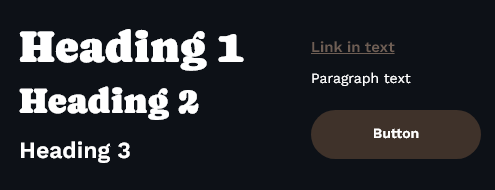
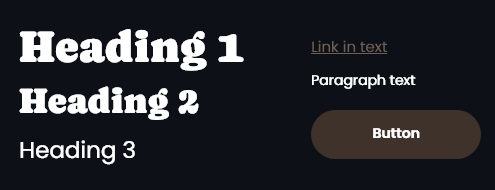
documentation: ui mockups updated

diff --git a/README.md b/README.md
@@ -1,5 +1,5 @@
 
-![Dog breed quiz Mockup](assets/images/documentation/responsive.png)
+![Dog Breed Quiz Mockup](assets/images/documentation/responsive.png)
 
 # Welcome to "Find your ideal dog breed" Quiz!
 This quiz is designed to help you discover the perfect dog breed for your lifestyle and personality. Developed by [Sunne Dogcare](https://fridalannerstrom.github.io/dogsitter/), it reflects our belief that choosing a dog is one of the most important decisions a future dog owner can make. By understanding your needs, habits, and preferences, we hope to guide you toward a breed that will thrive in your care.
@@ -56,7 +56,7 @@ This quiz is our way of promoting thoughtful dog ownership. By answering a serie
 
 ## Purpose of the Quiz
 
-This quiz has one simple goal: to help you discover which dog breed is the best match for your lifestyle and personality. There are no distractions, no unnecessary elements, and no clutter — just a clean and straightforward experience. A single clear button invites users to start the quiz, with concise, engaging text to guide them.
+This quiz has one simple goal: to help you discover which dog breed is the best match for your lifestyle and personality. There are no distractions, no unnecessary elements, and no clutter — just a clean and straightforward experience. A clear CTA button invites users to start the quiz, with concise, engaging text to guide them.
 
 While we provide a link back to Sunne Dogcare for those interested, this is not intended to act as an advertisement for the service. The focus remains solely on helping potential dog owners make thoughtful decisions about their future furry companions.
 
@@ -75,14 +75,14 @@ We’ve designed the quiz with simplicity and accessibility in mind, ensuring us
 | **Illustrations of beautiful dogs** | Eye-catching visuals enhance the user experience and make the quiz enjoyable. |
 | **Bold and clear text** | Short, simple instructions ensure users can easily follow along without confusion. | 
 | **Straightforward Call-to-Action** | A single, prominent button directs users to start the quiz. |
-| **Clear and Simple Questions** | Designed to be easy to understand, ensuring a smooth flow from start to finish. | 
-| **Overview of Top Dog Breed** | After completing the quiz, users are presented with their best match and receive clear, concise information about the breed. | 
-| **Discover Additional Matches** | Users can also see their other top three potential breeds for broader insights and more options. | 
+| **Clear and simple questions** | Designed to be easy to understand, ensuring a smooth flow from start to finish. | 
+| **Overview of top dog breed** | After completing the quiz, users are presented with their best match and receive clear, concise information about the breed. | 
+| **Discover additional matches** | Users can also see their other top three potential breeds for broader insights and more options. | 
 
 
 ## Graphic Design & Color Scheme
 
-The design of this quiz is intentionally simple, with a strong focus on text and illustrations. By avoiding distractions, the user can focus entirely on the content. The overall feel is warm, light, fresh, and trustworthy, brought to life through charming illustrations of various dog breeds.
+The design of this quiz is intentionally simple, with a strong focus on text and illustrations. By avoiding distractions, the user can focus entirely on the content. The overall feel is warm, light, and trustworthy, brought to life through charming illustrations of various dog breeds.
 
 ### Color Scheme
 
@@ -107,41 +107,41 @@ This pairing strikes the perfect balance, guiding the user’s eye naturally fro
 - **Caprasimo** for headings (H1, H2)
 - **Poppins** for paragraphs and H3 (Poppins used instead of Caprasimo for H3 due to better readability).
 - **Links** are styled in brown with an underline, maintaining a cohesive design that aligns with the overall aesthetic.
-- **Buttons** Large and brown buttons are used consistently throughout the quiz. Their prominent size and simplicity make them stand out, ensuring users can easily interact with the quiz.
+- **Buttons** are large and brown used consistently throughout the quiz. Their prominent size and simplicity make them stand out, ensuring users can easily interact with the quiz.
 
  ![Headings, text and buttons](assets/images/documentation/heading-text-buttons.png)
 
  ### Icons
 
-A single type of icon, a paw print from [Font Awesome](https://fontawesome.com/) is used to provide visual cues. For example, a breed’s energy level might be represented by five paw prints, with the number of filled paw prints indicating the level of activity. This simple visual system makes it quick and easy for users to interpret important information about each breed.
+A single type of icon, a paw print from [Font Awesome](https://fontawesome.com/) is used to provide visual information. For example, a breed’s energy level might be represented by five paw prints, with the number of filled paw prints indicating the level of activity. This simple visual system makes it quick and easy for users to interpret important information about each breed.
 
  ![Icons](assets/images/documentation/icons.png)
 
 ### Illustrations
 
-Instead of photographs, the quiz features illustrations of various dog breeds. These illustrations, sourced from [Flaticon.com](https://www.flaticon.com/) and created by [Maxim Kulikov](https://www.flaticon.com/authors/maxim-kulikov), bring a cohesive and playful touch to the design. The illustrations represent each breed accurately while maintaining a unified artistic style, enhancing the overall user experience.
+Instead of photographs, the quiz features illustrations of various dog breeds. These illustrations, sourced from [Flaticon.com](https://www.flaticon.com/) and created by [Maxim Kulikov](https://www.flaticon.com/authors/maxim-kulikov), bring a cohesive and playful touch to the design. The illustrations represent each breed accurately while maintaining an unified artistic style, enhancing the overall user experience.
 
  ![Illustrations](assets/images/documentation/illustrations.png)
 
 ## UI/UX Design
 
-The focus of the UI/UX design process for this quiz was to create a versatile and intuitive interface that accommodates different types of questions and results. Since the exact wording of the quiz questions is still being refined, the primary goal was to establish a design framework that supports various question formats. This includes:
+The focus of the UI/UX design process for this quiz was to create a versatile and intuitive interface that accommodates different types of questions and results. Since the exact wording of the quiz questions is still being refined at this point, the primary goal was to establish a design framework that supports various question formats. Each mockups also includes one or more selected options.
 
 | Purpose | Description | 🖥 Desktop | 💻 Tablet | 📱 Mobile |
 | ------- | ----------- | ------- | ------ | ------ |
-| **Checkbox questions** | For questions where users can select multiple answers. | ![Index Layout](assets/images/documentation/homepage.png) | ![Index Layout](assets/images/documentation/homepage.png) | ![Index Layout](assets/images/documentation/homepage.png) | 
-| **Radio Button question** | Information about services  | ![Index Layout](assets/images/documentation/homepage.png) | ![Index Layout](assets/images/documentation/homepage.png) | ![Index Layout](assets/images/documentation/homepage.png) | 
-| **Image-Based answers** | Display of dog-related images | ![Index Layout](assets/images/documentation/homepage.png) | ![Index Layout](assets/images/documentation/homepage.png) | ![Index Layout](assets/images/documentation/homepage.png) | 
-| **Text-Based answers with descriptions** | Information about the business | ![Index Layout](assets/images/documentation/homepage.png) | ![Index Layout](assets/images/documentation/homepage.png) | ![Index Layout](assets/images/documentation/homepage.png) | 
-| **Text-Based answers without descriptions** | Contact form for inquiries | ![Index Layout](assets/images/documentation/homepage.png) | ![Index Layout](assets/images/documentation/homepage.png) | ![Index Layout](assets/images/documentation/homepage.png) | 
+| **Checkbox questions** | For questions where users can select multiple answers | ![Checkbox Layout](assets/images/documentation/ui-mockup-desktop-checkbox.png) | ![Checkbox Layout](assets/images/documentation/ui-mockup-tablet-checkbox.png) | ![Checkbox Layout](assets/images/documentation/ui-mockup-mobile-checkbox.png) | 
+| **Radio Button question** | For questions where users can select only one option  | ![Radio Layout](assets/images/documentation/ui-mockup-desktop-radio.png) | ![Radio Layout](assets/images/documentation/ui-mockup-tablet-radio.png) | ![Radio Layout](assets/images/documentation/ui-mockup-mobile-radio.png) | 
+| **Image-Based answers** | For questions where users can select based on images | ![Image Layout](assets/images/documentation/ui-mockup-desktop-image.png) | ![Image Layout](assets/images/documentation/ui-mockup-tablet-image.png) | ![Image Layout](assets/images/documentation/ui-mockup-mobile-image.png) | 
+| **Text-Based answers with descriptions** | For questions where options require a description | ![With description Layout](assets/images/documentation/ui-mockup-desktop-with-description.png) | ![With description Layout](assets/images/documentation/ui-mockup-tablet-with-description.png) | ![With description Layout](assets/images/documentation/ui-mockup-mobile-with-description.png) | 
+| **Text-Based answers without descriptions** | For questions where options does not require a description | ![Without description Layout](assets/images/documentation/ui-mockup-desktop-without-desctiption.png) | ![Without description Layout](assets/images/documentation/ui-mockup-tablet-without-desctiption.png) | ![Without description Layout](assets/images/documentation/ui-mockup-mobile-without-desctiption.png) | 
 
 In addition to the question layouts, the quiz consists of three main page elements. Each page is designed for clarity and usability, ensuring a seamless experience. Below is an overview of their purpose:
 
 | Purpose | Description | 🖥 Desktop | 💻 Tablet | 📱 Mobile |
 | ------- | ----------- | ------- | ------ | ------ |
-| **Intro page** | Landing page with a clear CTA to start the quiz. | ![Index Layout](assets/images/documentation/homepage.png) | ![Index Layout](assets/images/documentation/homepage.png) | ![Index Layout](assets/images/documentation/homepage.png) | 
-| **Result page** | Displays the best match, additional breeds, and key details. | ![Index Layout](assets/images/documentation/homepage.png) | ![Index Layout](assets/images/documentation/homepage.png) | ![Index Layout](assets/images/documentation/homepage.png) | 
-| **404** | Error page with a message and navigation back to the main page. | ![Index Layout](assets/images/documentation/homepage.png) | ![Index Layout](assets/images/documentation/homepage.png) | ![Index Layout](assets/images/documentation/homepage.png) | 
+| **Intro page** | Landing page with a clear CTA to start the quiz. | ![Intro Layout](assets/images/documentation/ui-mockup-desktop-intro.png) | ![Intro Layout](assets/images/documentation/ui-mockup-tablet-intro.png) | ![Intro Layout](assets/images/documentation/ui-mockup-mobile-intro.png) | 
+| **Result page** | Displays the best match, additional breeds, and key details. | ![Result Layout](assets/images/documentation/ui-mockup-desktop-result.png) | ![Result Layout](assets/images/documentation/ui-mockup-tablet-result.png) | ![Result Layout](assets/images/documentation/ui-mockup-mobile-result.png) | 
+| **404** | Error page with a message and navigation back to the main page. | ![404 Layout](assets/images/documentation/ui-mockup-desktop-404.png) | ![404 Layout](assets/images/documentation/ui-mockup-tablet-404.png) | ![404 Layout](assets/images/documentation/ui-mockup-mobile-404.png) | 
 
 The final design for the UI were created using [Adobe XD](https://adobexdplatform.com/). The overall goal was to create a clean, engaging, and accessible design that guides users seamlessly through the quiz while keeping the experience visually appealing and user-friendly. This structure ensures flexibility for adjustments as the content evolves, without compromising the design's functionality or aesthetics.
 
